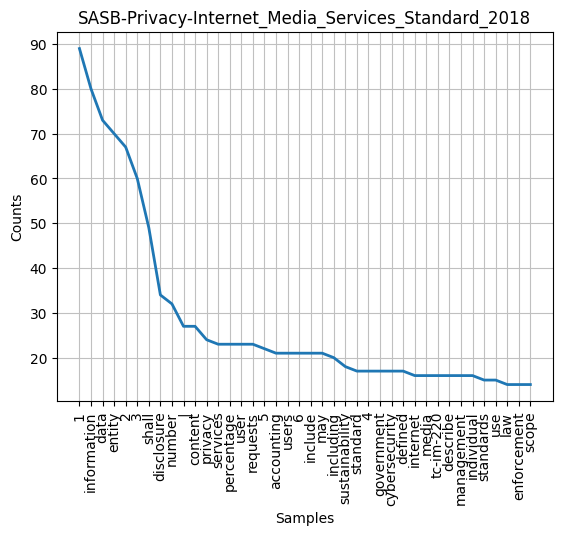
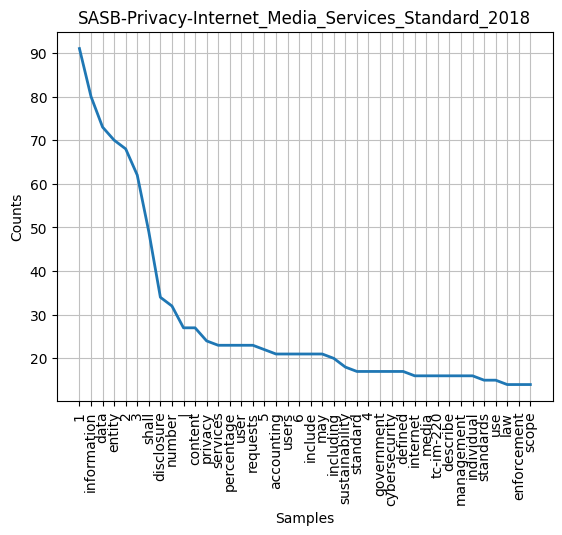
uploading updated results + some cleaning comments and debug prints

diff --git a/corpus_stats.py b/corpus_stats.py
@@ -31,12 +31,10 @@ def plot_graph(tokens,path,title):
     return freq
 def compute_stats(tokens, filename, output_file, gen_path): 
     # GRAPH OF WORD FREQUENCY
-    #freq = nltk.FreqDist(tokens) # NOW LOCATED INSIDE THE FUNCTION
     graph_path='output/'+gen_path+'/'+filename+'/Graph.png'
     os.makedirs(os.path.dirname(graph_path), exist_ok=True)
     freq = plot_graph(tokens,graph_path,filename)
-    
-    # TO DO: TOTAL NUMBER OF UTTERANCES (SENTENCES)
+
     print('Size of Lexicon:', len(freq), file=output_file)
 
     # ORDERING LEXICON BY FREQUENCY COUNT
@@ -75,14 +73,13 @@ def reconstruct_hyphenated_words(corpus):
     i = 0
     while i < len(corpus):
         if((corpus[i].text == "-" or corpus[i].text == "/") and corpus[i].whitespace_ == ""): # identify hyphen ("-" inside a word)
-            print("reconstruction 1:", corpus[i-1]," ->", corpus[i-1:i+2] )
+            #print("reconstruction 1:", corpus[i-1]," ->", corpus[i-1:i+2] )
             with corpus.retokenize() as retokenizer:
                 retokenizer.merge(corpus[i-1:i+2]) # merge the first part of the word, the hyphen and the second part of the word            
         elif(corpus[i].text == "’s" and corpus[i-1].whitespace_ == ""):
-            print("reconstruction 2:", corpus[i-1]," ->",corpus[i-1:i+1] )
+            #print("reconstruction 2:", corpus[i-1]," ->",corpus[i-1:i+1] )
             with corpus.retokenize() as retokenizer:
-                retokenizer.merge(corpus[i-1:i+1])
-            
+                retokenizer.merge(corpus[i-1:i+1])           
         else: 
             i += 1
     return corpus
@@ -90,7 +87,6 @@ def reconstruct_hyphenated_words(corpus):
 # noun chunks that correspond to keywords
 def reconstruct_noun_chunks(corpus,keywords):
     i = 0
-    #max_length = len(corpus)
     while i < len(corpus):
         counter = i
         token = corpus[i].text
@@ -100,14 +96,14 @@ def reconstruct_noun_chunks(corpus,keywords):
             aux = index
             while (aux != -1 and counter < len(corpus)-1 and token != kw_lower):
                 counter += 1
-                token += ' '+corpus[counter].text  # +' ' 
+                token += ' '+corpus[counter].text
                 aux = kw_lower.find(token)
                 if(aux == -1):
                     counter -=1
                     token = corpus[i].text
             if(i != counter):
                 if(token == kw_lower): #str(corpus[i:counter+1])
-                    print("reconstruction", token) #str(corpus[i:counter+1]))
+                    #print("reconstruction", token) #str(corpus[i:counter+1]))
                     with corpus.retokenize() as retokenizer:
                         retokenizer.merge(corpus[i:counter+1])
                     break 
@@ -132,23 +128,17 @@ def process_document(title, source_path,source,keywords):
     path = 'data/'+source_path+'/'+title+'.pdf' #'data/'+file_input_path_general+title+'.pdf'
     input_file = pdfx.PDFx(path) # TO DO: OPTIMIZE PATH, GET IT STRAIGHT FROM PARAMETER INSTEAD OF CALCULATING IT AGAIN
     input_file = input_file.get_text()
-    #print(input_file)
+
     # INPUT FILE PRE-PROCESSING FOR STRING SEARCH
     # INCLUDES TRANSFORMATION OF DOUBLE SPACES AND NEW LINES TO SINGLE SPACES + LOWERCASING
 
     input_file = input_file.lower()
-    #input_file = nlp(input_file)
-    #tokens = [token.text for token in input_file]
-    #print("1:", tokens)
-    #input_file = " ".join([token.text for token in input_file])
-    #print("2:", input_file)
 
     input_file = re.sub(" +", " ", input_file)
     input_file = re.sub("(\s+\-)", r" - ", input_file)
     input_file = re.sub("([a-zA-Z]+)([0-9]+)", r"\1 \2", input_file)
     input_file = re.sub("([0-9]+)([a-zA-Z]+)", r"\1 \2", input_file)
     input_file = re.sub("([()!,;\.\?\[\]\|])", r" \1 ", input_file)
-    #input_file = re.sub("\s+", " ", input_file)
     
     with open(keyword_guide_path,'w') as keyword_guide_file:
         print("\n"+title+"\n"+'Keywords found by String Search'+"\n", file=keyword_guide_file)
@@ -160,9 +150,9 @@ def process_document(title, source_path,source,keywords):
     doc = nlp(input_file)
     doc = reconstruct_hyphenated_words(doc)
     doc = reconstruct_noun_chunks(doc,keywords)
-    tokens = [token.text for token in doc] # if not token.is_space if not token.is_punct if not token.text in stopwords.words()] # token for parser, token.text for frequency test
+    tokens = [token.text for token in doc if not token.is_space if not token.is_punct if not token.text in stopwords.words()] # token for parser, token.text for frequency test
     #nlp.add_pipe("merge_noun_chunks") # NOT NEEDED WITH THE NEW LOGIC THAT PUTS TOKETHER KEYWORDS
-    print(tokens)
+    #print(tokens)
     
     print("\nWith stop word removal","\nSize of original corpus:", len(doc), "\nSize of filtered corpus:",len(tokens), file=output_file)
 
@@ -180,8 +170,6 @@ def analyse_folder(source):
             file_name, file_extension = os.path.splitext(filename)
             process_document(file_name, source, keywords)
     
-
-
 #####
 #  MAIN 
 #####
@@ -219,10 +207,8 @@ elif(folder == 3):
 
 for filename in os.listdir('data/'+path):#'data/'+folder):
     print(filename)
-    #print("!"+source+"!")
     file_name, file_extension = os.path.splitext(filename)
     process_document(file_name, path, source, keywords)
-    #print(path, source, keywords)
 
 # IF WE NEED TO RECREATE THE JOINT GRAPH, USE THIS COMMAND TO SAVE IT 
 #plt.savefig('output/JointGraph.png', bbox_inches='tight')
